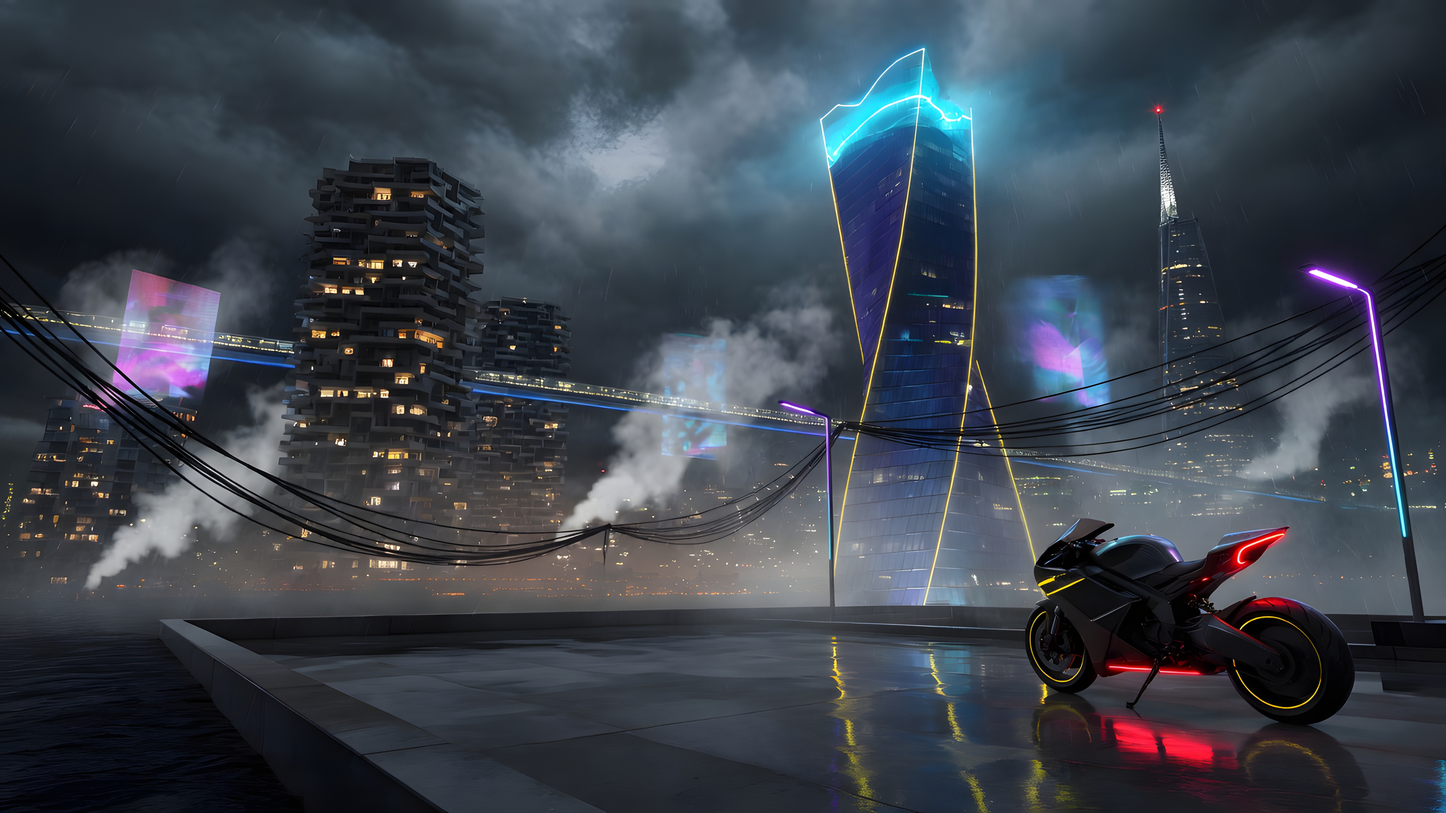
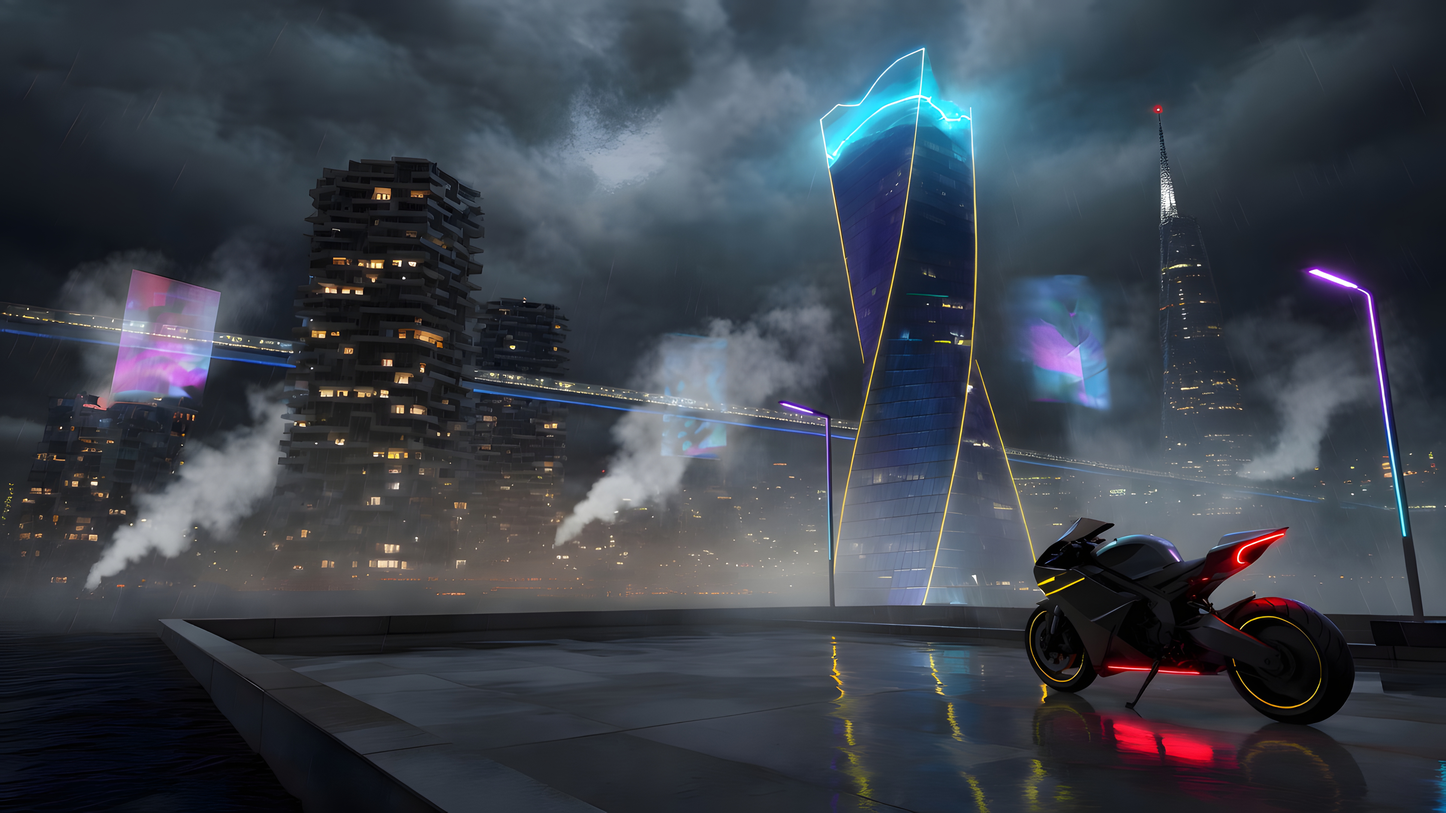
Remove hanging cables from the default plaza wallpaper
Keep the Night City plaza shot as wallpaper 1, without the overhead wires.

diff --git a/README.md b/README.md
@@ -9,7 +9,7 @@ Fan work inspired by *Cyberpunk 2077*. Not affiliated with CD PROJEKT RED.
 ## Install
 
 ```bash
-omarchy theme install https://github.com/YOUR_GITHUB_USER/omarchy-cyberpunk-2077-theme.git
+omarchy theme install https://github.com/jaykishankrk/omarchy-cyberpunk-2077-theme.git
 ```
 
 Then:
